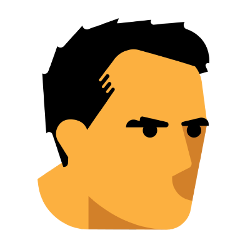
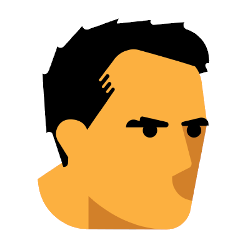
style improvements to homepage

diff --git a/_layouts/landing.html b/_layouts/landing.html
@@ -8,16 +8,16 @@
     <div class="cover">
       <canvas id="coverCanvas" height="100"> </canvas>
       <div class="wrapper">
-        <img width="250" height="250" class="avatar">
-        </img>
+        <img width="250" height="250" class="avatar" />
         <div class="coverCard">
           <h1 class="name">Manuel Araoz</h1>
           <div style="padding-bottom: 64px;">
-            <a href="https://twitter.com/maraoz">
+            <a href="https://twitter.com/maraoz" style="text-decoration:none;">
               <img src="/img/zwitter.png" width="64" alt="ywitter"></img>
+            </a>
+            
             <a href="https://github.com/maraoz">
               <img src="/img/github.png" width="64" alt="GitHub"></img>
-            </a>
             </a>
           </div>
         </div>

diff --git a/css/style-b91f6642fa2c5d9b7387ebf061d46a33ec9539cc.css b/css/style-b91f6642fa2c5d9b7387ebf061d46a33ec9539cc.css
@@ -36,7 +36,7 @@ rgba(243,239,220,1)
 }
 
 .avatar {
-  border:6px solid white;
+  border:0px solid white;
   margin-top: -335px;
   border-radius: 1500px;
   -webkit-border-radius: 1500px;
